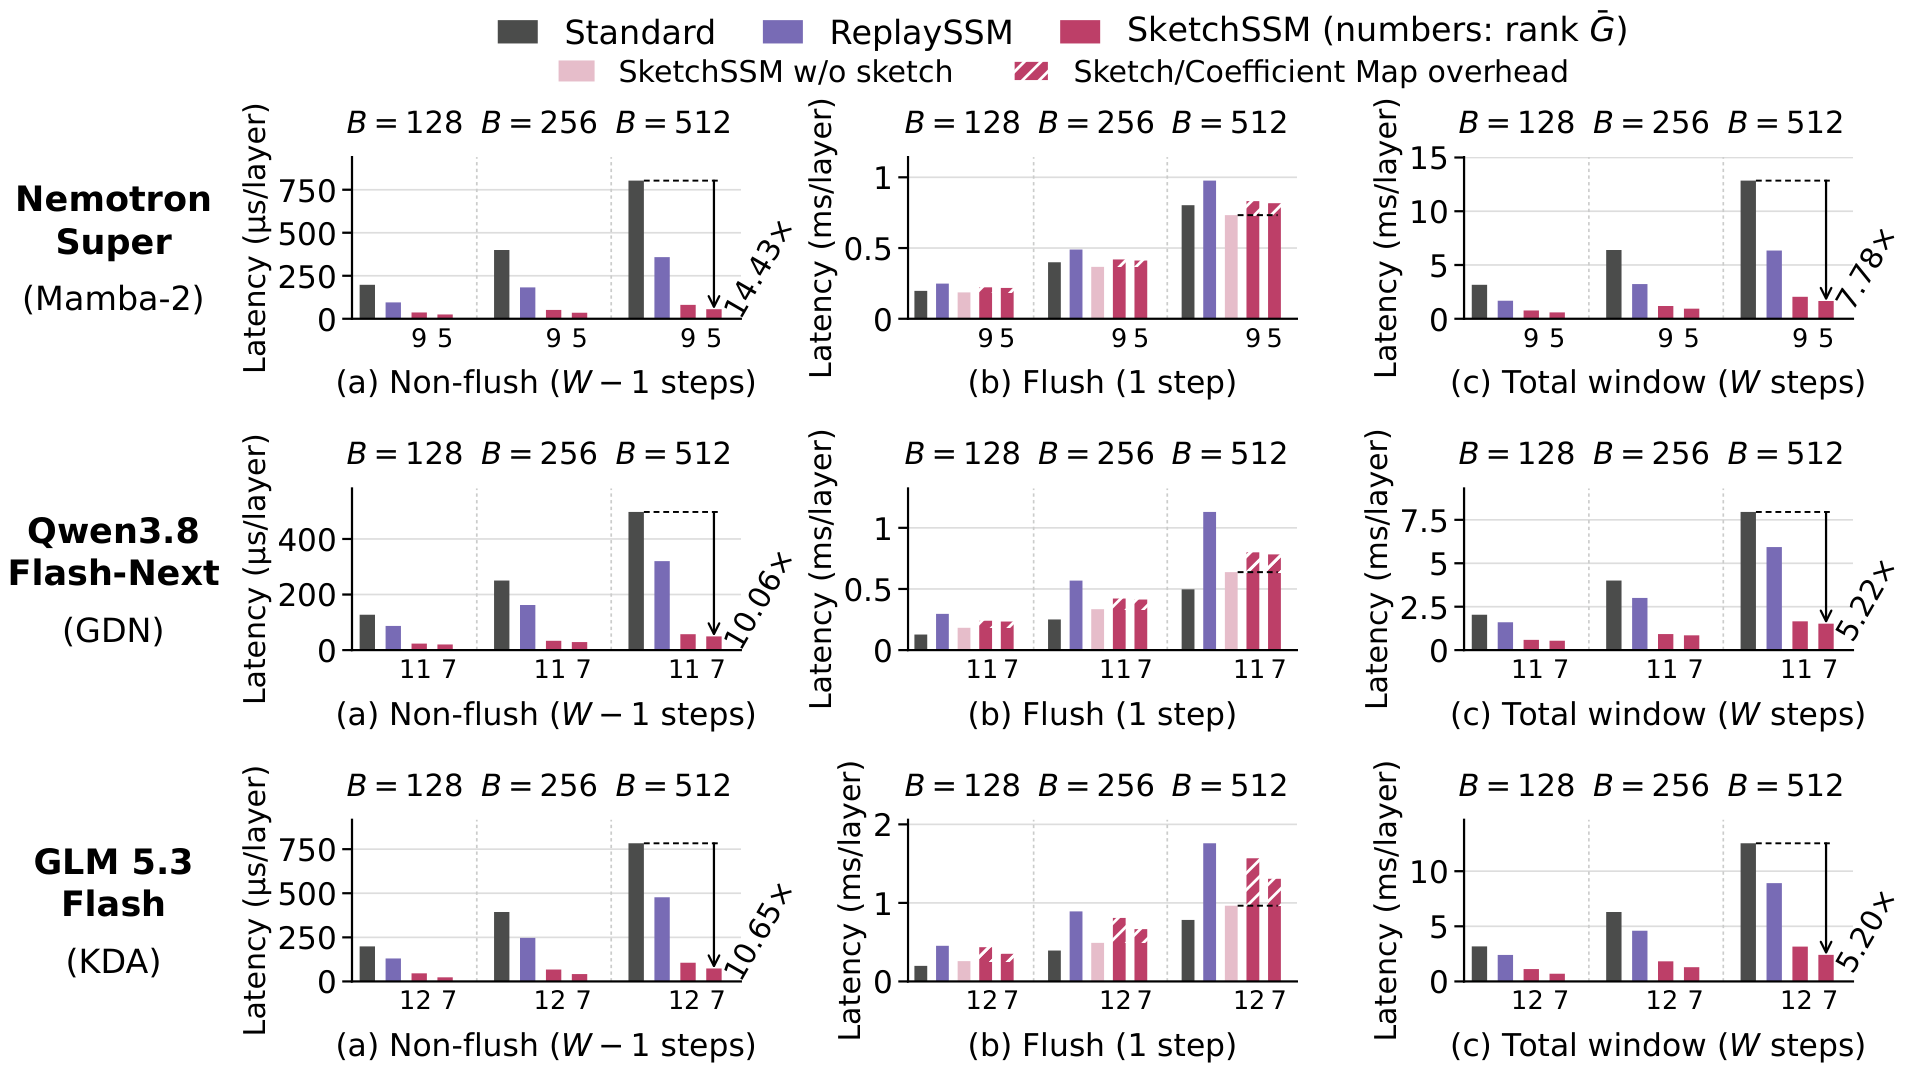
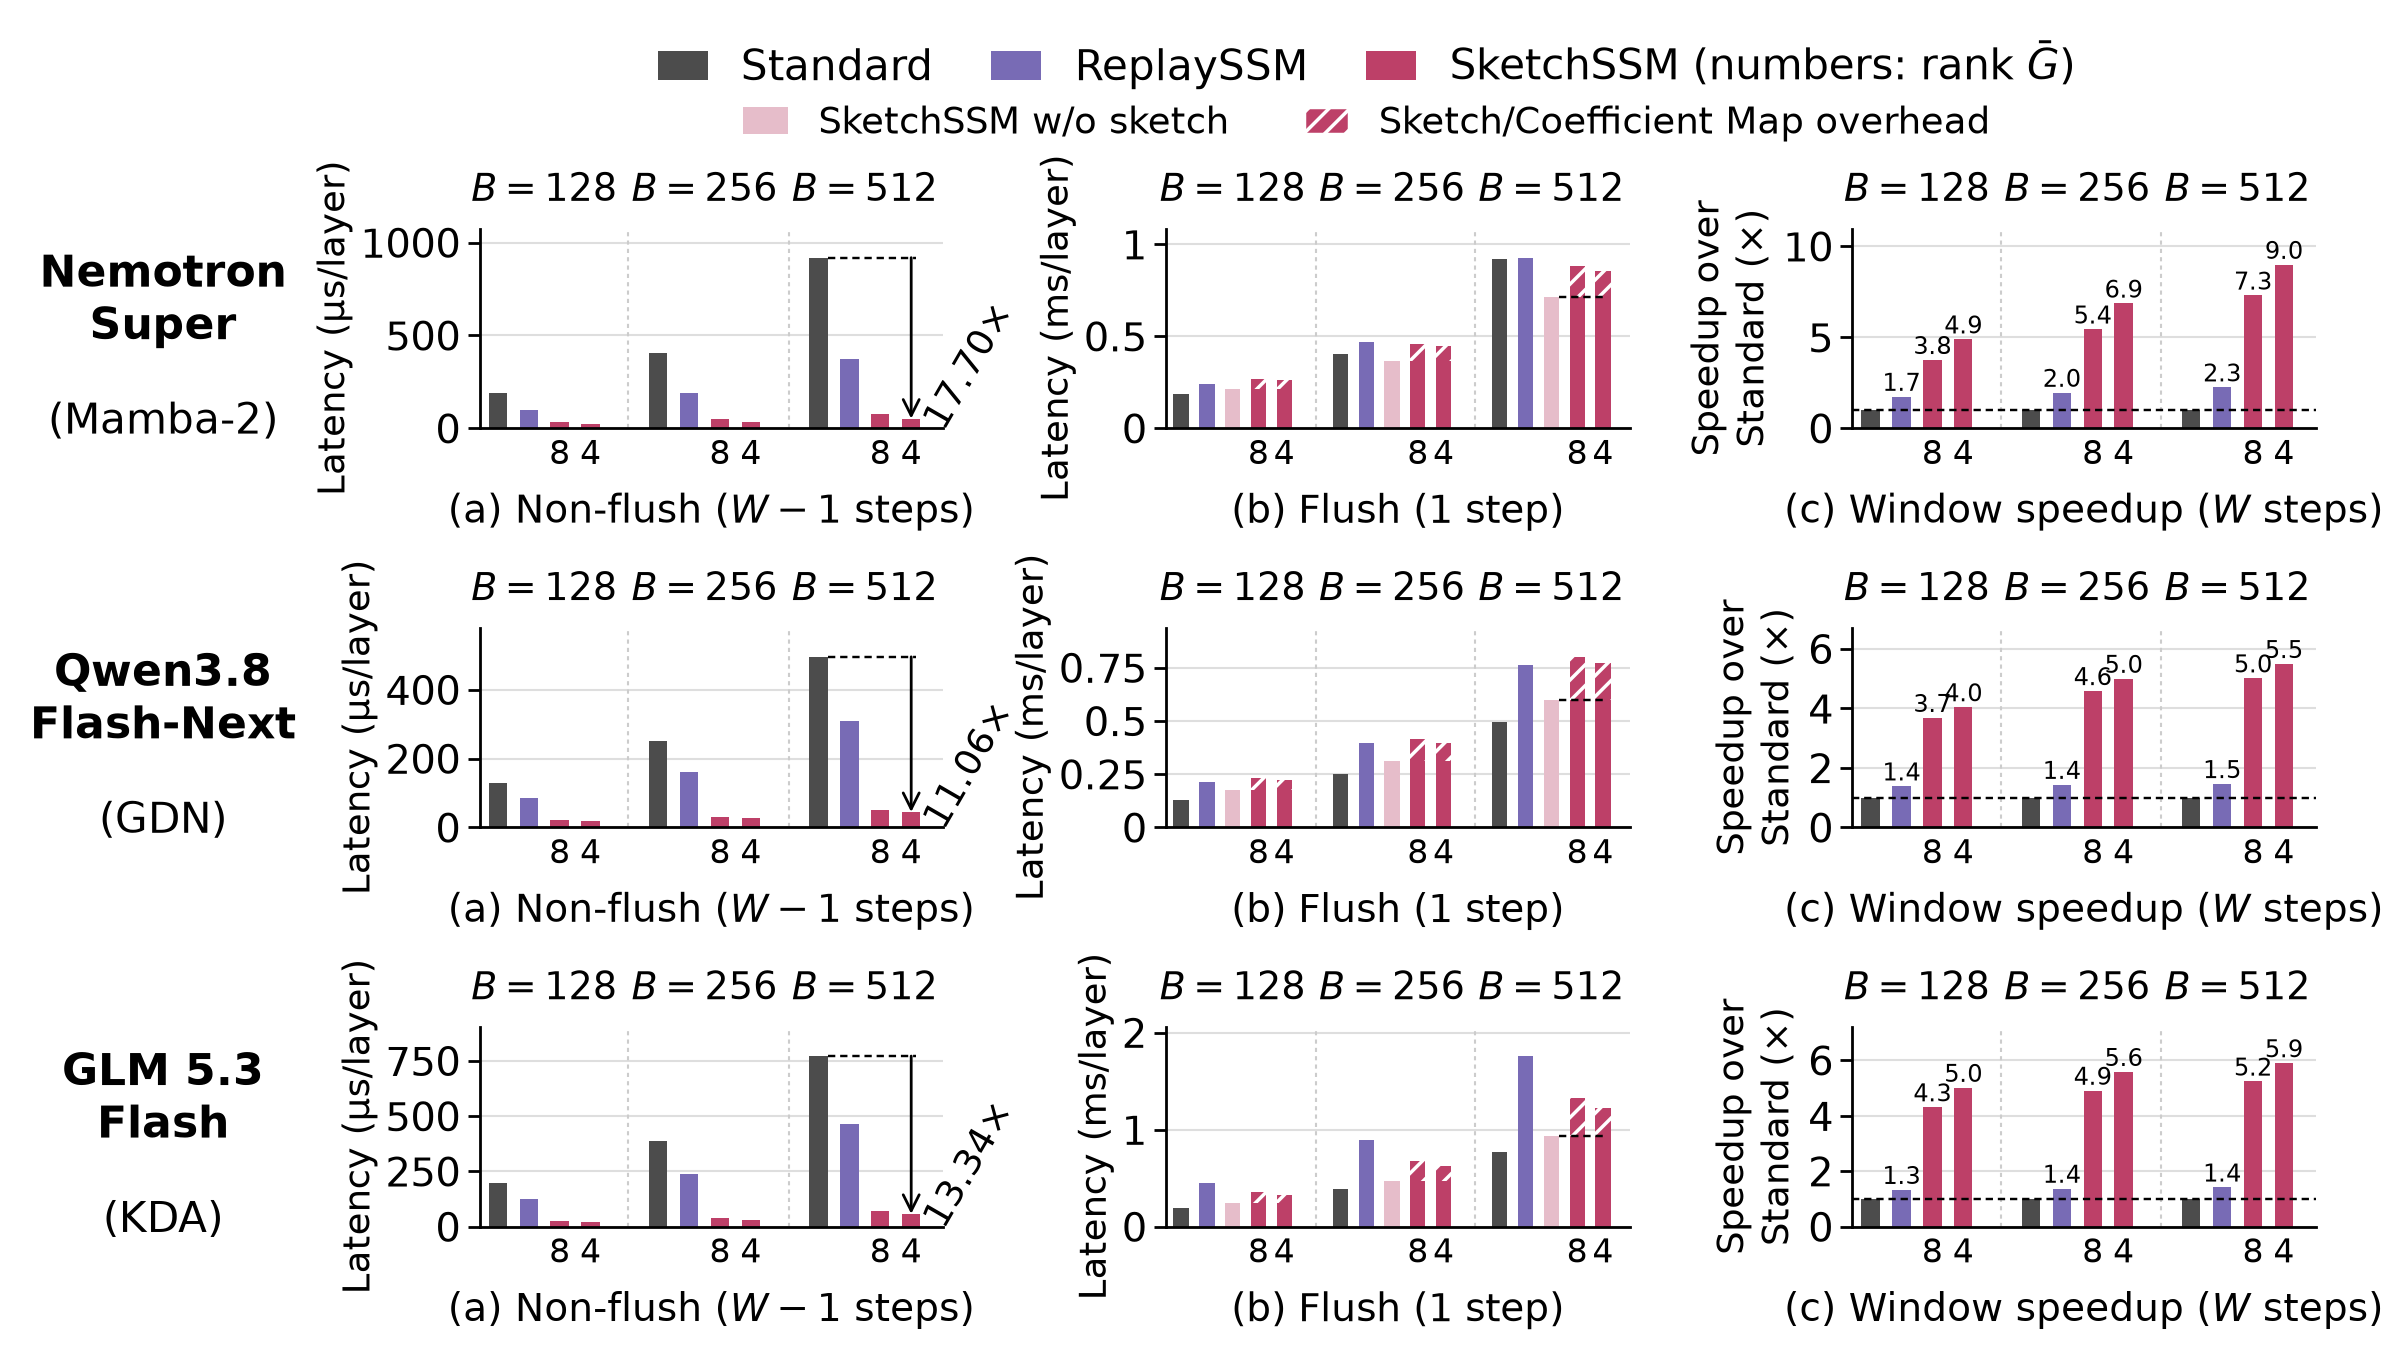
SketchSSM 0.1.12
The KDA sketch step no longer reads the coefficient fragment past the
padded rank, which raised an illegal address at small ranks (e.g. GLM 5.3
Flash at G=2). Outputs are bit-identical to 0.1.11. vllm/ fetches the
kernels from the v0.1.12 tag. The README figures (overview, accuracy, B300
latency) and numbers follow the final paper.

Changed region(s): [[0.0, 0.0, 1.0, 0.9814]]

diff --git a/sketchssm/__init__.py b/sketchssm/__init__.py
@@ -6,4 +6,4 @@
 ``sketchssm.calibration`` the offline calibration (basis and rank allocation).
 """
 
-__version__ = "0.1.11"
+__version__ = "0.1.12"

diff --git a/README.md b/README.md
@@ -29,13 +29,14 @@ SketchSSM keeps the full-state updates and approximates the reads:
 - **Flush step** (every W steps): read the full state S<sub>0</sub> once, apply
   the buffered updates from the ring buffer, compute the compact sketch U from
   the updated state, and write back the state and the sketch.
-- **Non-flush steps**: combine the sketch U with query-dependent coefficients
-  c<sub>t</sub> to reconstruct the output, without reading S<sub>0</sub>.
+- **Non-flush steps**: combine the sketch U and the coefficient map C with the
+  query to reconstruct the output, without reading S<sub>0</sub>.
 
 The sketching matrix is computed once per model by offline calibration. The
 sketch size (the mean sketch rank per state head) is chosen as a serving
 configuration and sets the trade-off between traffic reduction and accuracy. Across Mamba-2, GDN and KDA models, SketchSSM
-reduces state-access traffic by about 10x while largely preserving accuracy.
+at mean sketch rank 8 reduces state-access traffic by about 10x while matching the
+average accuracy of the full-state baseline.
 
 <p align="center">
   <img src="assets/sketchssm-overview.png" alt="SketchSSM over a window: flush and non-flush steps" width="100%">
@@ -117,19 +118,21 @@ See [`vllm/README.md`](https://github.com/SNU-ARC/SketchSSM/blob/main/vllm/READM
 **Accuracy versus state access traffic** (paper, Figure 5). Accuracy on
 MATH-500, AIME25, GPQA Diamond and LiveCodeBench for Nemotron Nano v2,
 Nemotron 3 Super, Qwen3.8 Flash-Next and GLM 5.3 Flash, against the reduction
-in state access traffic relative to Standard. SketchSSM (W=16) largely
-preserves accuracy up to about 10x, while pruning (GHOST, DRRQR) and
-quantization (DSQ) lose accuracy at much smaller reductions.
+in state access traffic relative to Standard. At mean rank 8 (W=16, 9.4-10.7x
+less state traffic), SketchSSM matches Standard's average accuracy on all four
+models, while pruning (GHOST, DRRQR) and quantization (DSQ) lose accuracy at
+much smaller reductions.
 
 <p align="center">
   <img src="assets/sketchssm-latency.png" alt="Linear-attention latency on one NVIDIA B300" width="100%">
 </p>
 
 **Linear-attention latency on one NVIDIA B300** (paper, Figure 7; W=16, batch
-128, 256 and 512): (a) a non-flush step, (b) a flush step, (c) a whole window.
-Over a window at batch 512, SketchSSM is 7.78x faster than Standard on Nemotron
-3 Super (Mamba-2), 5.22x on Qwen3.8 Flash-Next (GDN) and 5.20x on GLM 5.3 Flash
-(KDA).
+128, 256 and 512): (a) a non-flush step, (b) a flush step, (c) the speedup
+over Standard across a whole window. At mean rank 8 and batch 512, SketchSSM is
+7.30x faster than Standard on Nemotron 3 Super (Mamba-2), 5.02x on Qwen3.8
+Flash-Next (GDN) and 5.24x on GLM 5.3 Flash (KDA), and 3.24x, 3.43x and 3.69x
+faster than ReplaySSM.
 
 See [`evaluation/`](https://github.com/SNU-ARC/SketchSSM/blob/main/evaluation/README.md) to measure a model's accuracy
 (IFEval, MATH-500, HumanEval, MBPP), its decode throughput at a chosen batch
